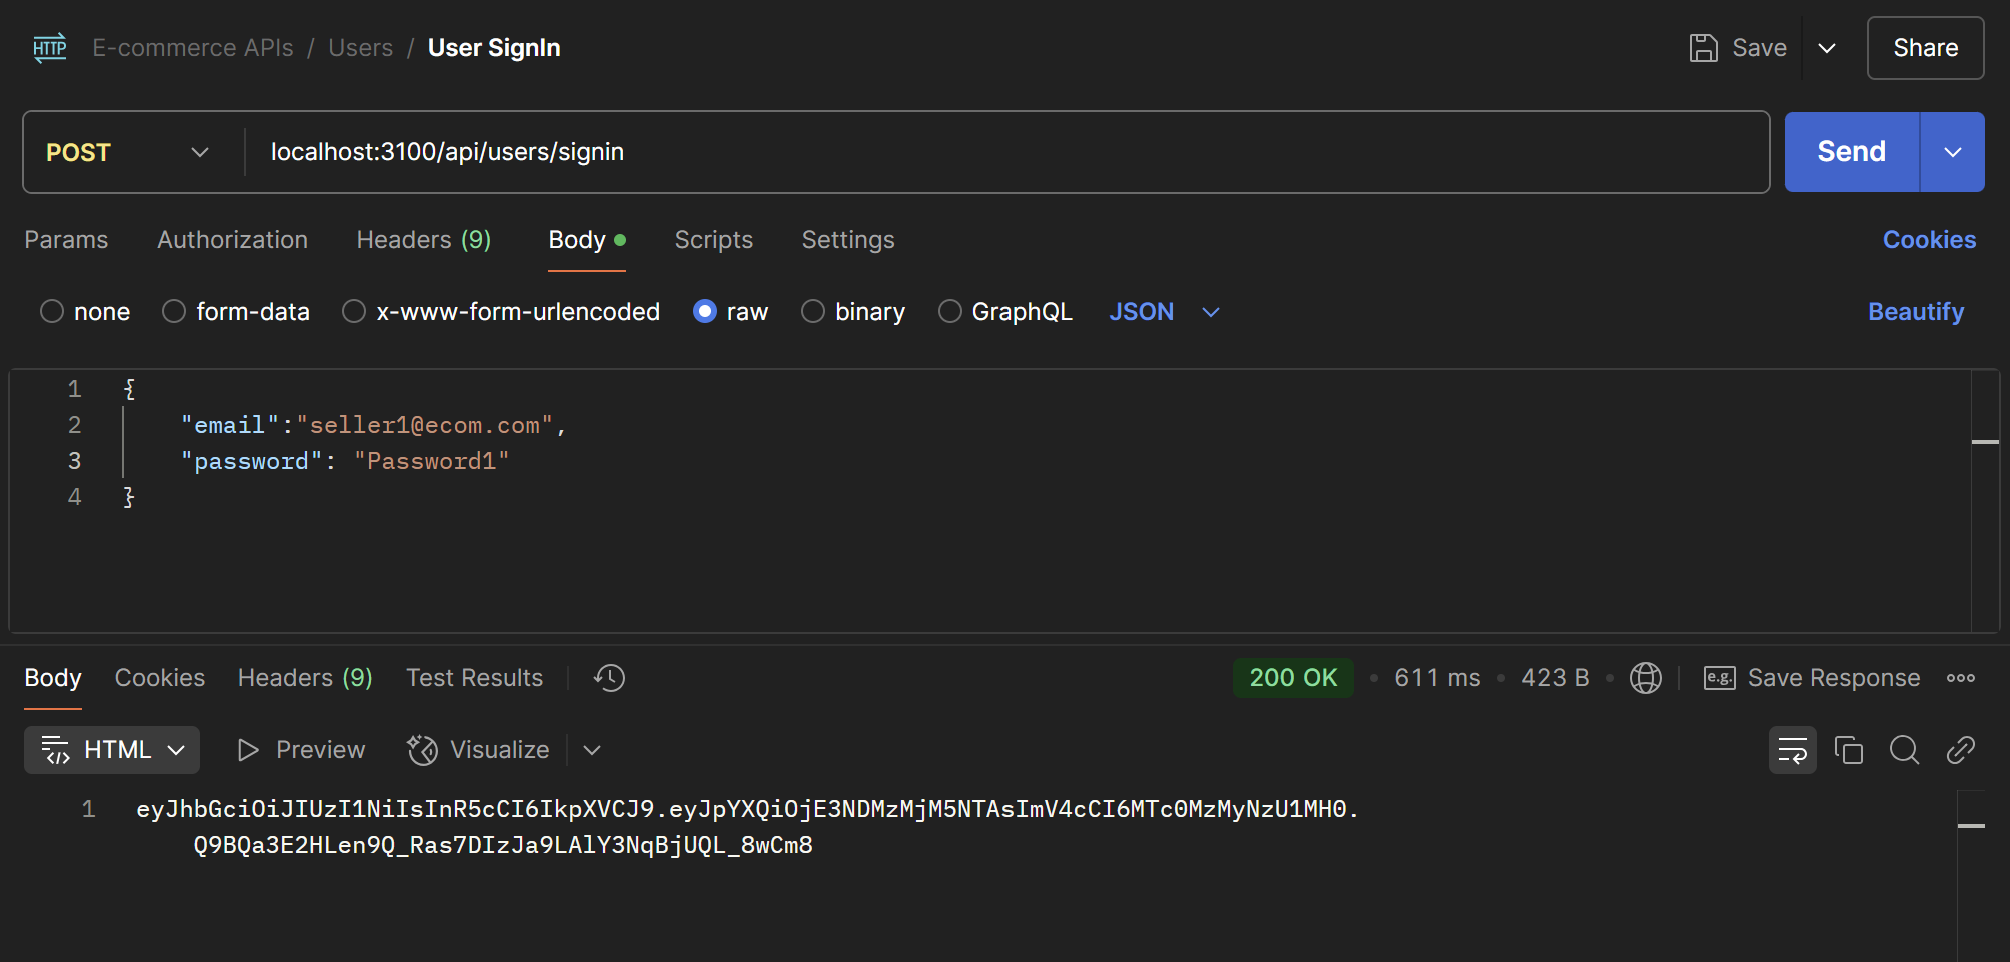
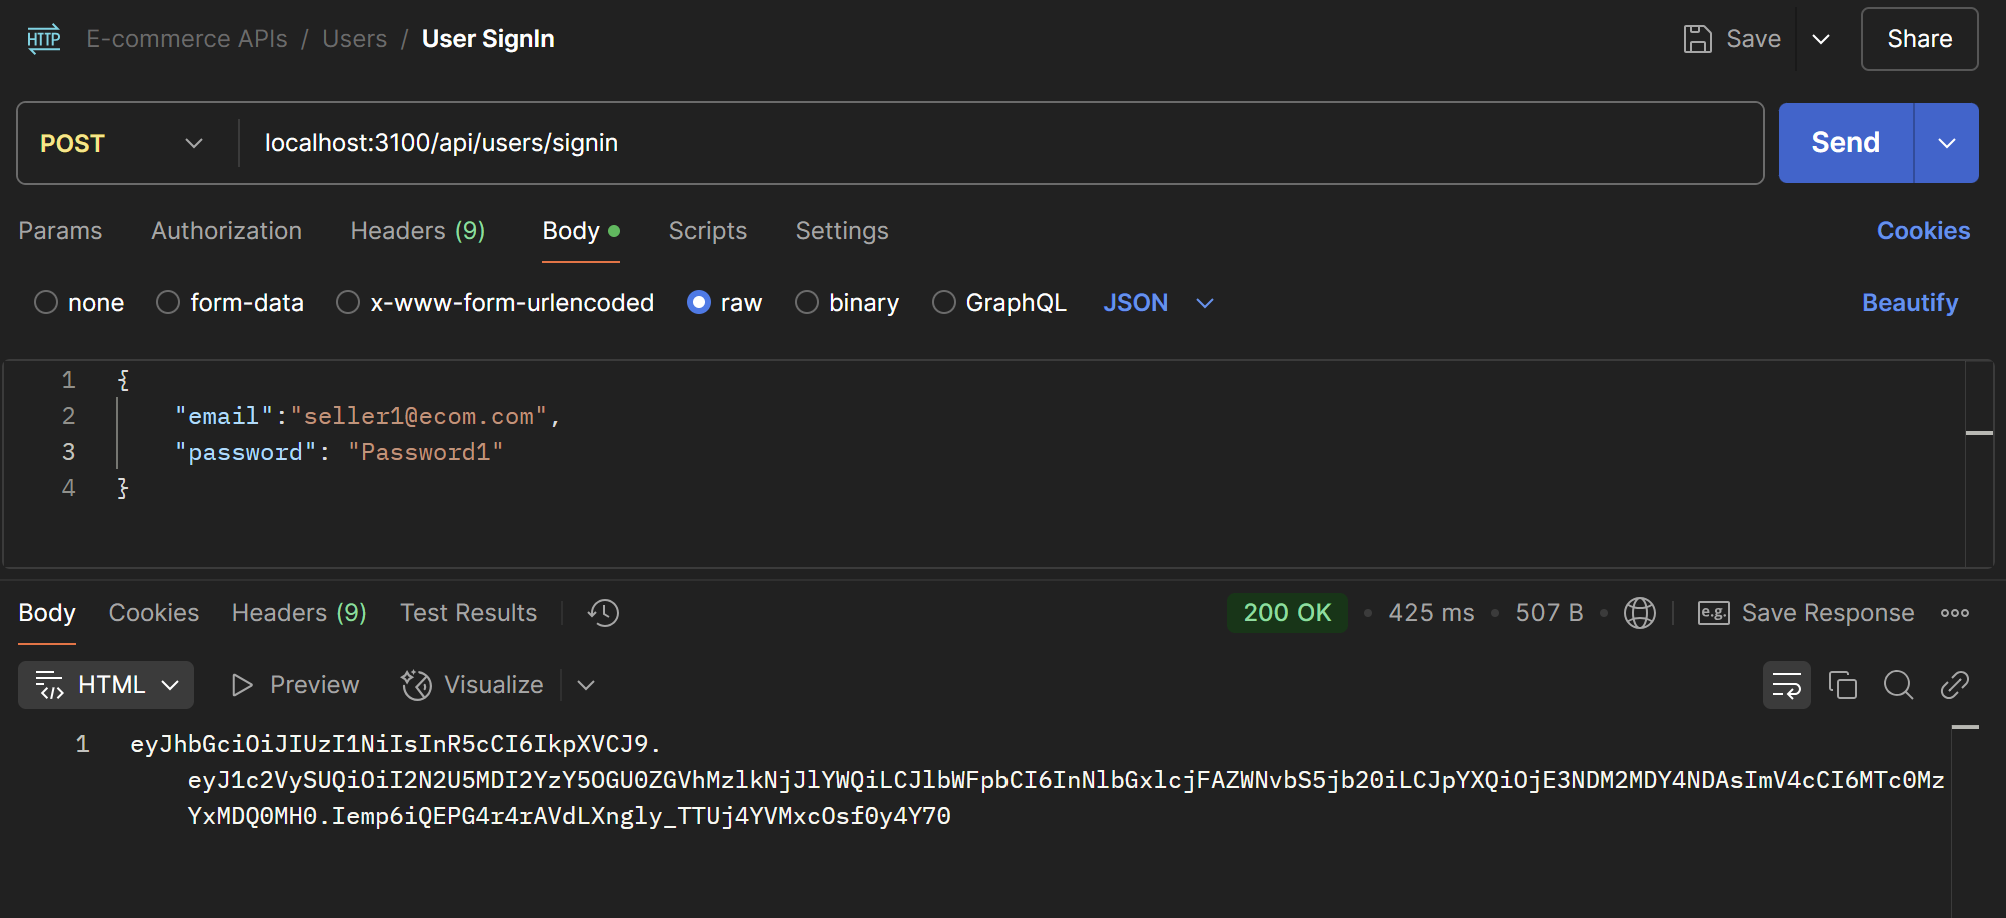
Added: Fixed Bug in 'User Repository'

diff --git a/E-Commerce APIs/src/features/user/user.repository.js b/E-Commerce APIs/src/features/user/user.repository.js
@@ -2,10 +2,13 @@ import { getDB } from "../../../config/mongodb.js";
 import { ApplicationError } from "../../error-handler/applicationError.js";
 
 class UserRepository {
+  constructor() {
+    this.collection = "users";
+  }
   async signUp(newUser) {
     try {
       const db = getDB(); // 1. Get the database
-      const collection = db.collection("users"); // 2. Get the collection
+      const collection = db.collection(this.collection); // 2. Get the collection
       await collection.insertOne(newUser); // 3.Insert the document
       return newUser;
     } catch (err) {
@@ -17,7 +20,7 @@ class UserRepository {
   async findByEmail(email) {
     try {
       const db = getDB(); // 1. Get the database
-      const collection = db.collection("users"); // 2. Get the collection
+      const collection = db.collection(this.collection); // 2. Get the collection
       return await collection.findOne({ email }); // 3. Find the document
     } catch (err) {
       console.log(err);

diff --git a/E-Commerce APIs/src/features/user/user.controller.js b/E-Commerce APIs/src/features/user/user.controller.js
@@ -28,7 +28,7 @@ export default class UserController {
         if (result) {
           // 3. Create token
           const token = jwt.sign(
-            { userID: result.id, email: result.email }, // Payload data
+            { userID: user._id, email: user.email }, // Payload data
             process.env.JWT_SECRET, // Secret key for signing
             {
               expiresIn: "1h", // Token expiry set to 1 hour
@@ -46,5 +46,3 @@ export default class UserController {
     }
   }
 }
-
-

diff --git a/E-Commerce APIs/src/features/user/user.model.js b/E-Commerce APIs/src/features/user/user.model.js
@@ -6,11 +6,15 @@ export class UserModel {
     this.type = type;
   }
 
+  /*
   static getAll() {
     return users;
   }
+  */
 }
 
+/*
+//Hardcoded User Data
 let users = [
   {
     id: 1,
@@ -34,3 +38,4 @@ let users = [
     type: "customer",
   },
 ];
+*/

diff --git a/E-Commerce APIs/docs/MONGODB-WITH-NODEJS-I.md b/E-Commerce APIs/docs/MONGODB-WITH-NODEJS-I.md
@@ -396,10 +396,13 @@ import { getDB } from "../../../config/mongodb.js";
 import { ApplicationError } from "../../error-handler/applicationError.js";
 
 class UserRepository {
+  constructor() {
+    this.collection = "users";
+  }
   async signUp(newUser) {
     try {
       const db = getDB(); // 1. Get the database
-      const collection = db.collection("users"); // 2. Get the collection
+      const collection = db.collection(this.collection); // 2. Get the collection
       await collection.insertOne(newUser); // 3.Insert the document
       return newUser;
     } catch (err) {
@@ -408,10 +411,10 @@ class UserRepository {
     }
   }
 
-  async signIn(email, password) {
+ async signIn(email, password) {
     try {
       const db = getDB(); // 1. Get the database
-      const collection = db.collection("users"); // 2. Get the collection
+      const collection = db.collection(this.collection); // 2. Get the collection
       return await collection.findOne({ email, password }); // 3. Find the document
     } catch (err) {
       console.log(err);
@@ -482,10 +485,6 @@ export class UserModel {
     this.password = password;
     this.type = type;
   }
-
-  static getAll() {
-    return users;
-  }
 }
 ```
 #### Key Changes
@@ -494,9 +493,14 @@ export class UserModel {
     - The signIn method was also present in UserModel, which searched for a user in a static array.
     - In the updated code, both methods have been removed from UserModel.
 
-2. Now, UserModel Only Contains the Constructor and getAll():
-    - The updated version only defines the user schema (constructor) and keeps getAll() for retrieving static user data.
-    - This means UserModel is now a pure data model, and all logic related to user authentication is likely moved elsewhere (e.g., UserRepository).
+2. UserModel Now Only Contains the Constructor:
+    - The updated version defines only the user schema (constructor) without any methods.
+    - It no longer interacts with the database, making it a pure data model.
+
+
+3. Removed getAll Method:
+    - The getAll method, which retrieved static user data, has been removed.
+    - Now, all user-related queries are likely handled in UserRepository.
 
 #### Why These Changes?
 1. ✔ Separation of Concerns – Now, database interaction is handled separately (possibly in UserRepository).
@@ -769,7 +773,7 @@ async signUp(req, res) {
         if (result) {
           // 3. Create token
           const token = jwt.sign(
-            { userID: result.id, email: result.email }, // Payload data
+            { userID: user._id, email: user.email }, // Payload data
             "N6BUpqT7VL8cI7VbzLHaaS9txwGJWZMR", // Secret key for signing
             {
               expiresIn: "1h", // Token expiry set to 1 hour
@@ -796,6 +800,7 @@ async signUp(req, res) {
     - Instead of querying both email and password directly, the system first retrieves the user by email.
     - Then, bcrypt.compare(req.body.password, user.password) is used to check if the entered password matches the stored hashed password.
     - If the comparison returns true, authentication proceeds; otherwise, it is rejected.
+    - After successful authentication, a JWT token is generated using jwt.sign(), where user._id (instead of result.id) is used as MongoDB stores the unique identifier as _id. Previously, result came from this.userRepository.signIn(), which checked both email and password together. Now, the process is split: first, fetch the user by email (user), then verify the password. Since result is no longer used, we correctly reference user._id to ensure the JWT contains the right user ID, preventing authentication errors.
 
 #### Why These Changes?
 1. bcrypt.hash() for Secure Storage:
@@ -898,3 +903,187 @@ async signUp(req, res) {
     1. ✅ Security: Avoids exposing the secret key in code.
     2. ✅ Flexibility: Allows different environments (dev, production) to use different secrets.
     3. ✅ Best Practice: Credentials should be stored in environment variables, not hardcoded.
+
+## Secure Car Dealership Management with Repository Pattern in Node.js
+In this concise guide, we'll build a secure car dealership management system using
+Node.js, the Repository Pattern, the bcrypt library for password security, and the
+dotenv library for environment variables. Our scenario involves a car dealership
+managing its inventory and sales.
+#### Scenario:
+You are developing a car dealership management system for "Speedy Motors." The
+system should securely store user credentials, manage car inventory, and track
+sales.
+
+### 1. User Authentication:
+
+#### Step 1: Repository Setup -> In 'user.repository.js'
+```javascript
+import { getDB } from '../config/mongodb.js';
+import bcrypt from 'bcrypt';
+import { ApplicationError } from '../../error-handler/applicationError.js';
+
+class UserRepository {
+    async signUp(newUser) {
+        try {
+            const db = await getDB();
+            const collection = db.collection("users");
+            
+            // Hash the password before storing
+            const hashedPassword = await bcrypt.hash(newUser.password, 10);
+            newUser.password = hashedPassword;
+            
+            // Insert user into the collection
+            await collection.insertOne(newUser);
+        } catch (err) {
+            throw new ApplicationError("Database Error", 500);
+        }
+    }
+
+    async signIn(email, password) {
+        try {
+            const db = await getDB();
+            const collection = db.collection("users");
+            
+            const user = await collection.findOne({ email });
+            
+            if (user && await bcrypt.compare(password, user.password)) {
+                return user;
+            } else {
+                return null;
+            }
+        } catch (err) {
+            throw new ApplicationError("Database Error", 500);
+        }
+    }
+}
+
+export default UserRepository;
+```
+
+#### Step 2: Controller and Routes -> In 'user.controller.js'
+```javascript
+import UserRepository from './user.repository.js';
+
+export default class UserController {
+    constructor() {
+        this.userRepository = new UserRepository();
+    }
+
+    async signUp(req, res) {
+        try {
+            const { name, email, password, role } = req.body;
+            const user = { name, email, password, role };
+            
+            const createdUser = await this.userRepository.signUp(user);
+            res.status(201).send({ message: "User registered", user: createdUser });
+        } catch (error) {
+            res.status(500).send({ message: "Error registering user", error: error.message });
+        }
+    }
+
+    async signIn(req, res) {
+        try {
+            const { email, password } = req.body;
+            const user = await this.userRepository.signIn(email, password);
+            
+            if (user) {
+                res.status(200).send({ message: "Sign in successful", user });
+            } else {
+                res.status(401).send({ message: "Invalid credentials" });
+            }
+        } catch (error) {
+            res.status(500).send({ message: "Error signing in", error: error.message });
+        }
+    }
+}
+```
+
+### 2. Car Inventory Management:
+#### Step 1: Repository Setup -> In 'car.repository.js'
+```javascript
+import { getDB } from '../../config/mongodb.js';
+import { ApplicationError } from "../../error-handler/applicationError.js";
+
+class CarRepository {
+    async add(newCar) {
+        try {
+            const db = await getDB();
+            const collection = db.collection("cars");
+            
+            await collection.insertOne(newCar);
+            return newCar;
+        } catch (err) {
+            throw new ApplicationError("Database Error", 500);
+        }
+    }
+
+    async getAll() {
+        try {
+            const db = await getDB();
+            const collection = db.collection("cars");
+            
+            const cars = await collection.find().toArray();
+            return cars;
+        } catch (err) {
+            throw new ApplicationError("Database Error", 500);
+        }
+    }
+    // Other methods for updating, filtering, and more...
+}
+
+export default CarRepository;
+```
+
+#### Step 2: Controller and Routes -> In 'car.controller.js'
+```javascript
+import CarRepository from './car.repository.js';
+
+export default class CarController {
+    constructor() {
+        this.carRepository = new CarRepository();
+    }
+
+    async addCar(req, res) {
+        try {
+            const { make, model, year, price } = req.body;
+            const newCar = { make, model, year, price };
+            
+            const createdCar = await this.carRepository.add(newCar);
+            res.status(201).send({ message: "Car added", car: createdCar });
+        } catch (error) {
+            res.status(500).send({ message: "Error adding car", error: error.message });
+        }
+    }
+
+    async getAllCars(req, res) {
+        try {
+            const cars = await this.carRepository.getAll();
+            res.status(200).send(cars);
+        } catch (error) {
+            res.status(500).send({ message: "Error retrieving cars", error: error.message });
+        }
+    }
+    // Other methods for managing car inventory...
+}
+```
+
+### 3. Environment Variables with dotenv:
+#### 1. Create a .env file:
+```env
+DB_CONNECTION_STRING=mongodb://localhost:27017/mydb
+SECRET_KEY=mysecretkey
+```
+
+#### 2. In config/mongodb.js:
+```javascript
+import dotenv from 'dotenv';
+dotenv.config();
+// Use process.env.DB_CONNECTION_STRING in your code
+```
+
+### Conclusion:
+By implementing the Repository Pattern, secure user authentication using bcrypt,
+and utilizing environment variables with dotenv, we've built a robust car dealership
+management system. This scenario-based approach covers user registration,
+authentication, car inventory, and sales tracking. The approach ensures data
+security, integrity, and scalability in your application
